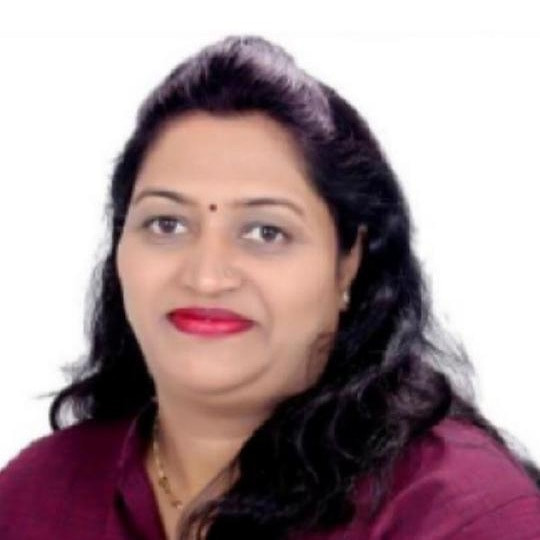
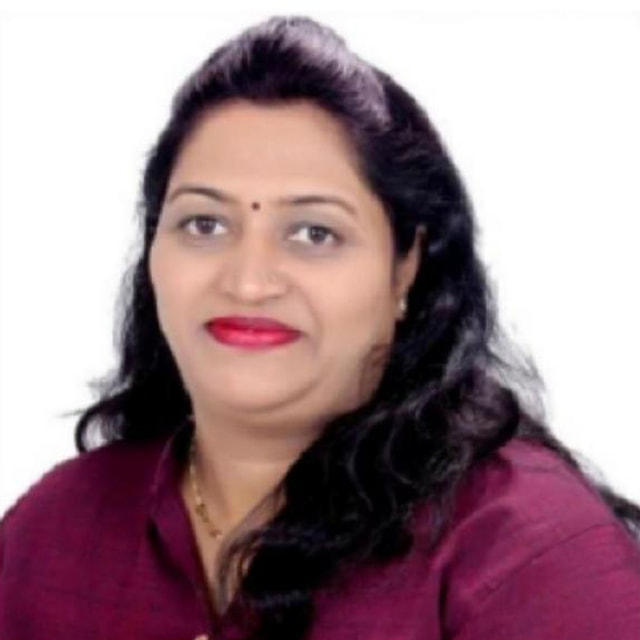
feat(team): the deck's own portraits, plus every profile link and address supplied
PHOTOGRAPHS. The company's "Forecasting for Renewable Energies" deck carries an
"Our Team" slide with all three people on it, and its portraits are better than
the files the site was using. The three are cropped from that slide at native
resolution — 640x640 of real detail, against 540px files soft enough to look
upscaled from the 270px versions the legacy site still serves.

Extracted by carving the DCTDecode streams straight out of the PDF; poppler is
not installed on this machine and nothing needed installing to do it.

Measured on the page, the photo frame is 273 CSS px, so at 2x it asks for 546
device pixels. That ratio has now gone 0.68 (the original stretched 540s) to
0.99 (after the cards were resized) to 1.17 — the portraits are finally
oversampled rather than enlarged.

CONTACTS. All three LinkedIn profiles and two work addresses were supplied, so
the cards carry them: one row pinned to the card bottom, so a card with one link
still lines its photograph and name up with a card that has two.

THE THIRD ADDRESS IS ABSENT, NOT GUESSED. The two that exist follow different
patterns — `gajanan.yadav@` and `ankitayadav@` — so there is nothing to
pattern-match even if inventing an address for a named person were acceptable.
That card shows one link.

Two pieces of prose went stale with this and are corrected rather than left to
contradict the page: the file comment saying only one profile link existed, and
[…]

diff --git a/frontend/src/pages/Team.jsx b/frontend/src/pages/Team.jsx
@@ -19,17 +19,31 @@ import { ROUTES } from '../constants/routes.js';
  * commentary: fine on a draft, and on a live site it just tells every visitor
  * what the company has not got round to. A card shows what exists.
  *
- * Only one profile link was supplied, so only one card has one — the other two
- * are silent rather than apologetic.
+ * The company supplied all three LinkedIn profiles and two work addresses on
+ * 8 Sep 2026, so the cards now carry them. The third address is absent, not
+ * guessed: the two that exist follow different patterns (`gajanan.yadav@` and
+ * `ankitayadav@`), and an invented address for a named person is a worse
+ * failure than a missing one. That card simply shows one link instead of two.
  *
  * What is NOT here, and why, is documented in data/team.js: two legacy-only
- * staff whose current employment is unconfirmed, and three sets of personal
- * mobile numbers and emails that should not sit on a public page.
+ * staff whose current employment is unconfirmed, and personal mobile numbers
+ * that should not sit on a public page.
  */
 function LinkedInIcon() {
   return (
     <svg width="15" height="15" viewBox="0 0 24 24" fill="currentColor" aria-hidden="true">
       <path d="M4.98 3.5a2.5 2.5 0 1 1 0 5 2.5 2.5 0 0 1 0-5ZM2.4 9.5h5.16V21H2.4V9.5Zm7.2 0h4.95v1.57h.07c.69-1.24 2.38-2.05 4.1-2.05 4.38 0 5.19 2.68 5.19 6.17V21h-5.16v-5.13c0-1.22-.02-2.8-1.78-2.8-1.79 0-2.06 1.34-2.06 2.71V21H9.6V9.5Z" />
+    </svg>
+  );
+}
+
+function MailIcon() {
+  return (
+    <svg width="15" height="15" viewBox="0 0 24 24" fill="none" aria-hidden="true">
+      <rect x="2.5" y="4.5" width="19" height="15" rx="2.5"
+            stroke="currentColor" strokeWidth="1.8" />
+      <path d="m3.5 7 8.5 6 8.5-6" stroke="currentColor" strokeWidth="1.8"
+            strokeLinecap="round" strokeLinejoin="round" />
     </svg>
   );
 }
@@ -92,21 +106,32 @@ export default function Team() {
                   <span className="vp-tcard__rule" aria-hidden="true" />
                   {p.focus && <p className="vp-tcard__focus">{p.focus}</p>}
 
-                  {/* Rendered only when a URL exists. No placeholder, no
-                      "to be published". */}
-                  {p.linkedin && (
-                    <a
-                      className="vp-tcard__link"
-                      href={p.linkedin}
-                      target="_blank"
-                      rel="noopener noreferrer"
-                    >
-                      <LinkedInIcon />
-                      <span>LinkedIn</span>
-                      <span className="visually-hidden">
-                        {' '}profile for {p.name} (opens in a new tab)
-                      </span>
-                    </a>
+                  {/* Each rendered only when it exists. No placeholder, no
+                      "to be published" — a card shows what there is. */}
+                  {(p.linkedin || p.email) && (
+                    <div className="vp-tcard__contact">
+                      {p.linkedin && (
+                        <a
+                          className="vp-tcard__link"
+                          href={p.linkedin}
+                          target="_blank"
+                          rel="noopener noreferrer"
+                        >
+                          <LinkedInIcon />
+                          <span>LinkedIn</span>
+                          <span className="visually-hidden">
+                            {' '}profile for {p.name} (opens in a new tab)
+                          </span>
+                        </a>
+                      )}
+                      {p.email && (
+                        <a className="vp-tcard__link" href={`mailto:${p.email}`}>
+                          <MailIcon />
+                          <span>Email</span>
+                          <span className="visually-hidden">{' '}{p.name} at {p.email}</span>
+                        </a>
+                      )}
+                    </div>
                   )}
                 </div>
               </article>
@@ -123,9 +148,9 @@ export default function Team() {
               <div>
                 <h2 id="tc-h" className="vp-band__title">Speak to the team</h2>
                 <p className="vp-band__body">
-                  Enquiries reach the right desk through our published company channels
-                  rather than individual contact details. If you are looking to join the
-                  team, see{' '}
+                  For anything outside a named contact above, our published company
+                  channels reach the right desk. If you are looking to join the team,
+                  see{' '}
                   <Link className="vp-link" to={ROUTES.careers}>careers</Link>.
                 </p>
               </div>

diff --git a/frontend/src/data/team.js b/frontend/src/data/team.js
@@ -41,7 +41,20 @@
  * is public. A profile now shows what exists and is silent about what does not.
  */
 
-/** @typedef {{id:string, name:string, role:string, photo:string|null, linkedin:string|null, focus:string|null}} Leader */
+/**
+ * PHOTOGRAPHS come from the "Our Team" slide of the company's own
+ * "Forecasting for Renewable Energies" deck, cropped from the slide at native
+ * resolution. They replace 540px files that were soft enough to look upscaled;
+ * the deck's are 640px of real detail, on the same white studio background.
+ *
+ * PROFILE LINKS AND EMAILS were supplied by the company on 8 Sep 2026. Only two
+ * of the three have a published address, and the third is simply absent rather
+ * than guessed at from the pattern of the other two — an invented address for a
+ * named individual is a worse failure than a missing one.
+ */
+
+/** @typedef {{id:string, name:string, role:string, photo:string|null,
+ *             linkedin:string|null, email:string|null, focus:string|null}} Leader */
 
 /** @type {Leader[]} */
 export const leadership = [
@@ -50,10 +63,9 @@ export const leadership = [
     name: 'Gajanan Yadav',
     role: 'Founder',
     photo: '/team/gajanan-yadav.jpg',
-    /* Supplied by the company. Stored without the trailing slash, which is
-       where LinkedIn itself redirects. The other two have no profile URL, and
-       the page says nothing about that rather than advertising the gap. */
+    /* Stored without the trailing slash, which is where LinkedIn redirects. */
     linkedin: 'https://www.linkedin.com/in/gajanan-yadav-645367154',
+    email: 'gajanan.yadav@vedanjay-power.com',
     focus: 'Recognised by SolarQuarter among India’s 40 Most Promising Young Business Leaders in the Solar Industry.',
   },
   {
@@ -61,7 +73,12 @@ export const leadership = [
     name: 'Anjali Yadav',
     role: 'Co Founder',
     photo: '/team/anjali-yadav.jpg',
-    linkedin: null,
+    linkedin: 'https://www.linkedin.com/in/anjali-yadav-7b692a350',
+    /* No address supplied for her. NOT inferred from the other two — the two
+       that exist follow different patterns anyway (`gajanan.yadav@` and
+       `ankitayadav@`), so there is nothing here to pattern-match even if
+       guessing were acceptable. */
+    email: null,
     focus: 'Recognised by SolarQuarter among Women Leaders in the Solar Sector.',
   },
   {
@@ -69,7 +86,8 @@ export const leadership = [
     name: 'Ankita Yadav',
     role: 'CEO',
     photo: '/team/ankita-yadav.jpg',
-    linkedin: null,
+    linkedin: 'https://www.linkedin.com/in/ankita-yadav-b06989230',
+    email: 'ankitayadav@vedanjay-power.com',
     /* No award listing or other corroboration names her, so nothing is stated
        beyond the title and photograph the company published. */
     focus: null,

diff --git a/frontend/src/styles/about.css b/frontend/src/styles/about.css
@@ -173,10 +173,16 @@
   font-size:.8125rem;line-height:1.6;color:var(--vp-text-muted);margin:0;
 }
 /* Pins the link to the bottom so cards of unequal text still line up. */
+/* Both links share one row pinned to the bottom, so cards with one link and
+   cards with two still line their photographs and names up. */
+.vp-tcard__contact{
+  display:flex;flex-wrap:wrap;gap:.35rem .9rem;
+  margin-top:auto;padding-top:.9rem;
+}
 .vp-tcard__link{
-  display:inline-flex;align-items:center;gap:.45rem;margin-top:auto;padding-top:1.1rem;
-  font-size:.875rem;font-weight:600;color:var(--vp-primary);
-  text-decoration:none;align-self:flex-start;
+  display:inline-flex;align-items:center;gap:.4rem;
+  font-size:.8125rem;font-weight:600;color:var(--vp-primary);
+  text-decoration:none;
 }
 .vp-tcard__link svg{flex:none;transition:transform var(--vp-dur) var(--vp-ease);}
 .vp-tcard__link:hover{color:var(--vp-primary-hover);text-decoration:underline;}
